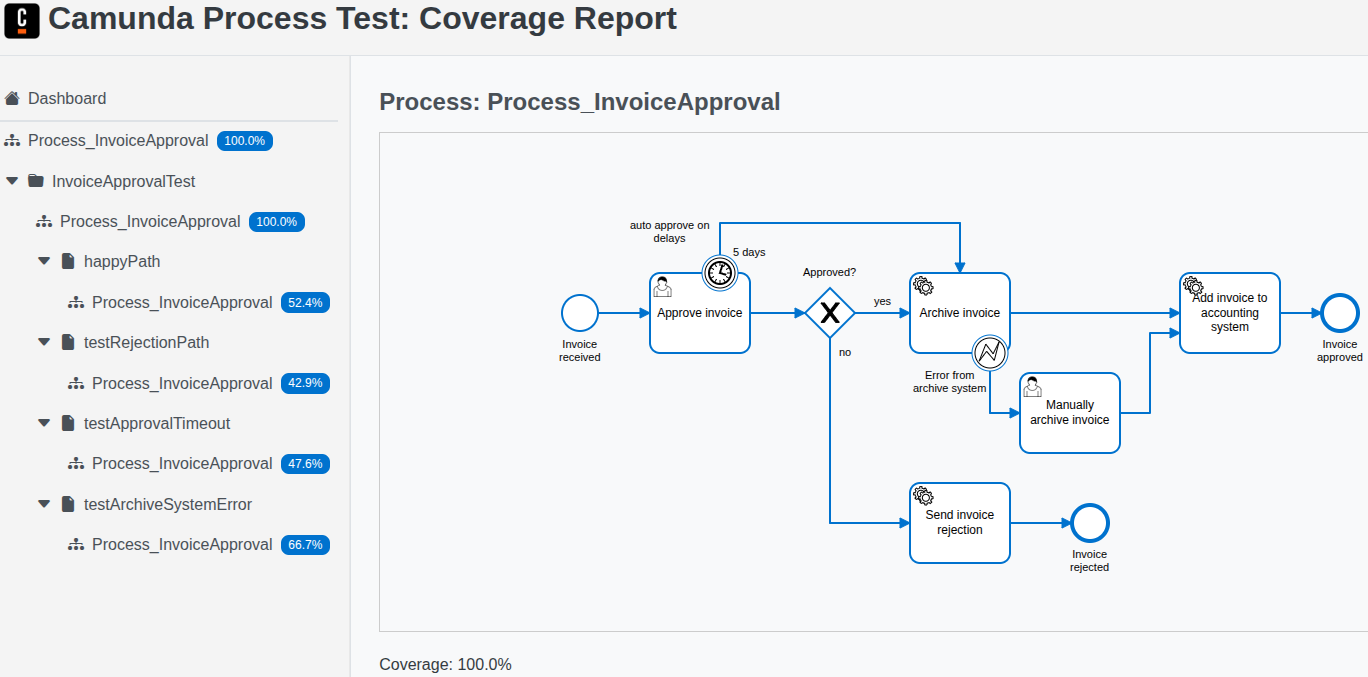
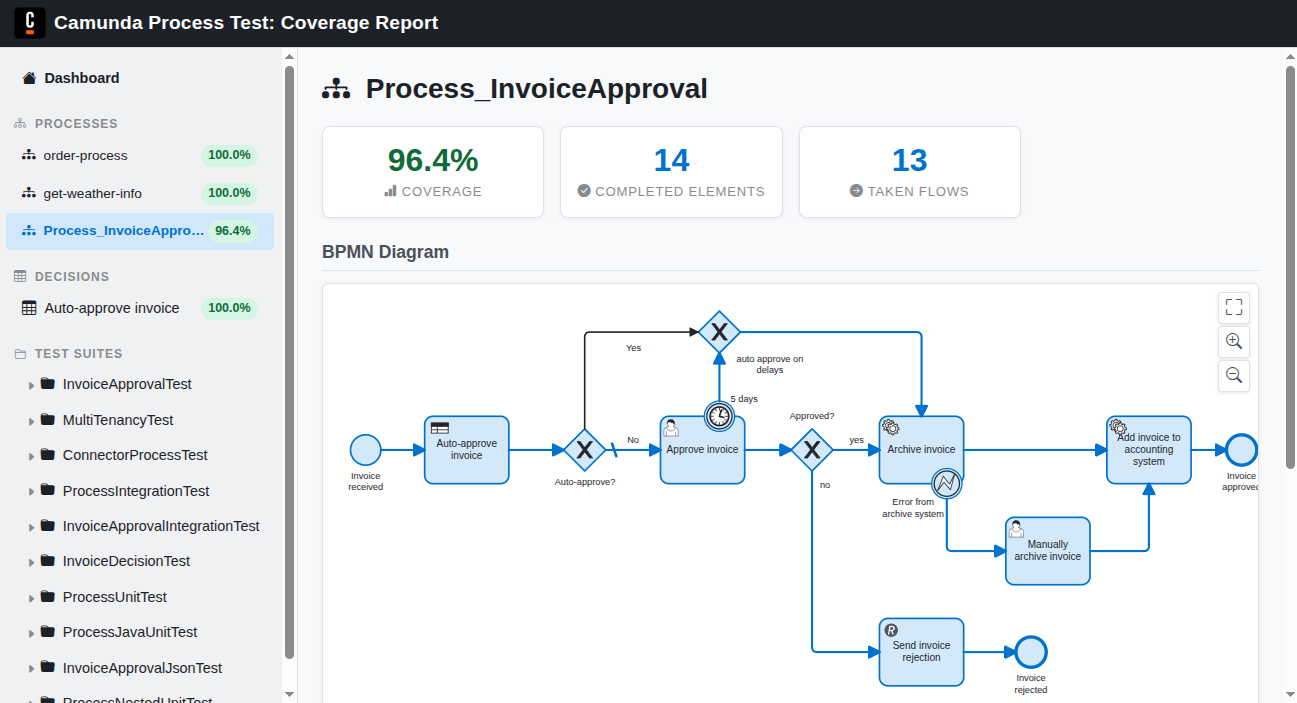
feat(apis-tools/testing): Update CPT coverage report

diff --git a/docs/apis-tools/testing/configuration.md b/docs/apis-tools/testing/configuration.md
@@ -893,8 +893,8 @@ private static final CamundaProcessTestExtension EXTENSION =
 
 ## Process Test Coverage
 
-CPT generates an HTML and JSON coverage report of your BPMN processes. You can configure the report generation in the
-following way.
+CPT generates an HTML and JSON coverage report of your BPMN processes and DMN decision tables. You can configure the
+report generation in the following way.
 
 <Tabs groupId="client" defaultValue="spring-sdk" queryString values={[
 {label: 'Camunda Spring Boot Starter', value: 'spring-sdk' },
@@ -911,10 +911,14 @@ camunda:
     coverage:
       # Change the directory where the report is generated
       reportDirectory: target/coverage-report
-      # Exclude processes from the report
+      # Exclude processes from the report by their process definition ID
       excludedProcesses:
         - process_1
         - process_2
+      # Exclude decision from the report by their decision definition ID
+      excludedDecisions:
+        - decision_1
+        - decision_2
 ```
 
 </TabItem>
@@ -926,9 +930,12 @@ In your `/camunda-container-runtime.properties` file:
 ```properties
 # Change the directory where the report is generated
 coverage.reportDirectory=target/coverage-report
-# Exclude processes from the report
+# Exclude processes from the report by their process definition ID
 excludedProcesses[0]=process_1
 excludedProcesses[1]=process_2
+# Exclude decision from the report by their decision definition ID
+excludedDecisions[0]=decision_1
+excludedDecisions[1]=decision_2
 ```
 
 </TabItem>

diff --git a/docs/apis-tools/testing/getting-started.md b/docs/apis-tools/testing/getting-started.md
@@ -355,15 +355,19 @@ Take a look at the example project on [GitHub](https://github.com/camunda/camund
 
 ## Process Test Coverage
 
-After a test run, CPT prints the coverage of your BPMN processes to the log and generates a detailed HTML and JSON
-report. You can use the report to identify untested paths in your processes and to increase your test coverage.
+After a test run, CPT prints the coverage of your BPMN processes and DMN decision tables to the log and generates a
+detailed HTML and JSON report. You can use the report to identify untested paths in your processes or decisions.
 
 A link to the HTML report is printed in the log:
 
 ```
-Process coverage: io.camunda.InvoiceApprovalTest
+Coverage: io.camunda.InvoiceApprovalTest
 ========================
-- Process_InvoiceApproval: 100%
+Process coverage:
+- Process_InvoiceApproval: 96%
+
+Decision coverage:
+- auto-approve-invoice: 20%
 
  Coverage report: file:///my/home/projects/my-process-application/target/coverage-report/report.html
 ```